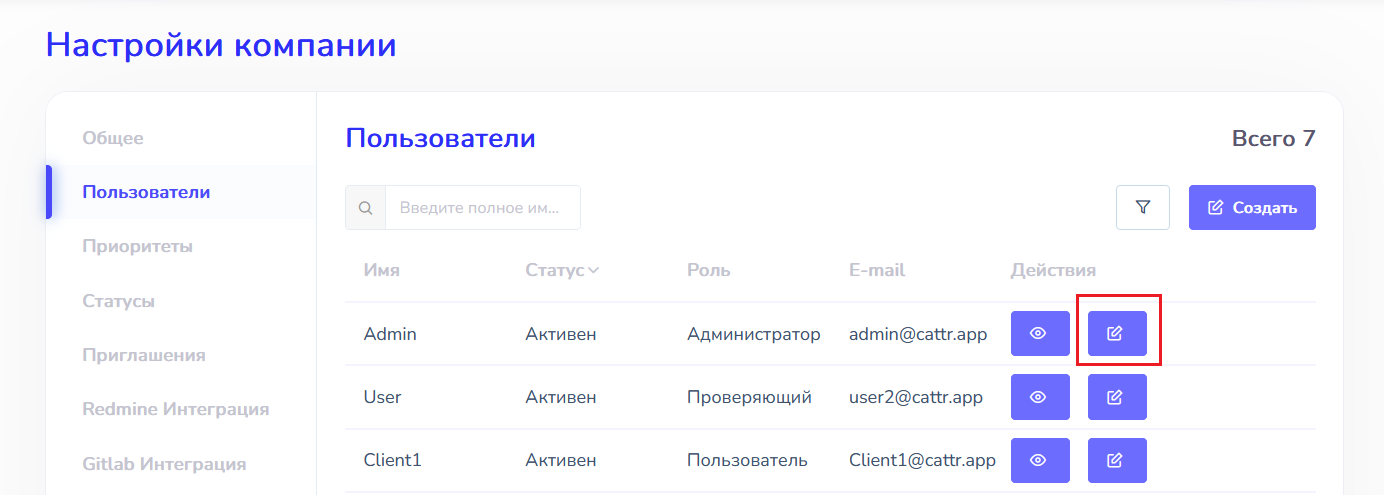
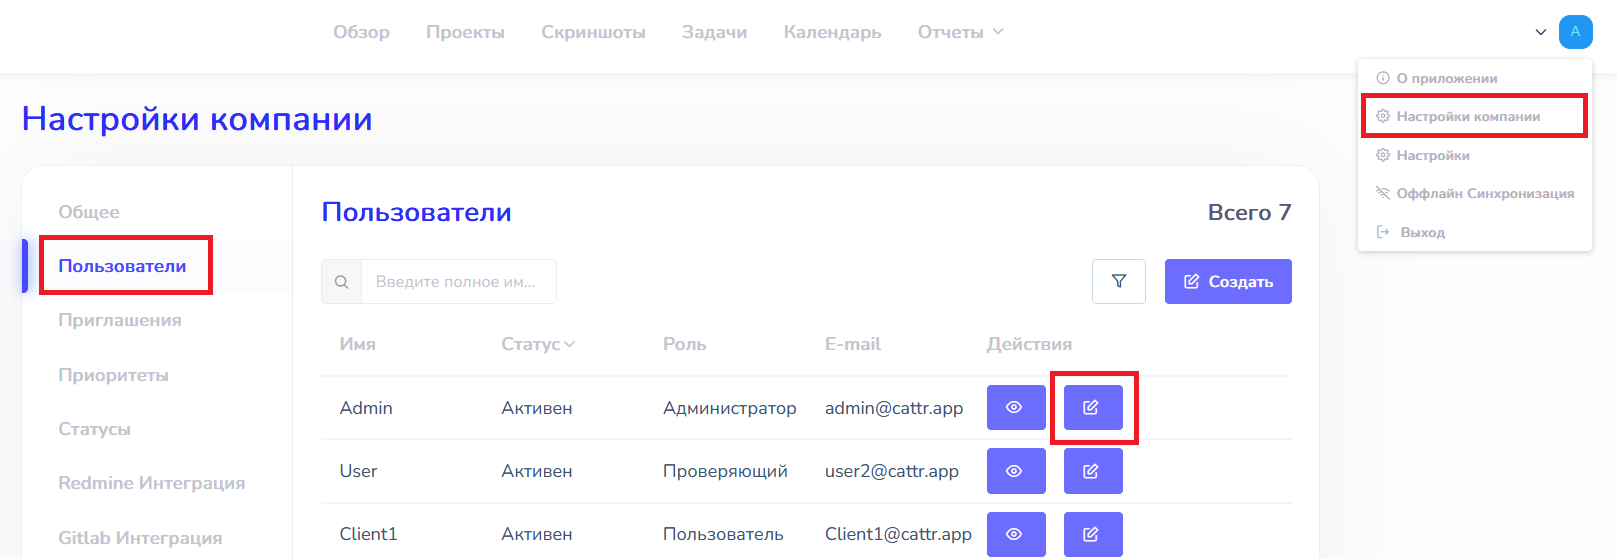
roles

diff --git a/docs/ru/roles/README.md b/docs/ru/roles/README.md
@@ -20,9 +20,14 @@
 
 ![Включить интеграцию](../../assets/ru/roles/edit.png)
 
-Для назначения роли пользователю на конкретном проекте необходимо выбрать этот проект в выпадающем меню (можно начать вводить символы для поиска) и требуемую роль.
+Для назначения роли пользователю на конкретном проекте необходимо зайти в пункт меню Проекты и выбрать опцию Участники. 
 
-![Назначить роль](../../assets/ru/roles/user.png)
+![Выбор участников в проекте](../../assets/ru/roles/edit_project_roles.png)
+
+
+Далее пользователи перемещаются в нужное окно при помощи стрелок, в выпадающем списке нужно уточнить их роль в данном проекте.
+![Смена роли в проекте](../../assets/ru/roles/change_project_role.png)
+
 
 ## Ручное добавление времени  :id=manual-time
 
